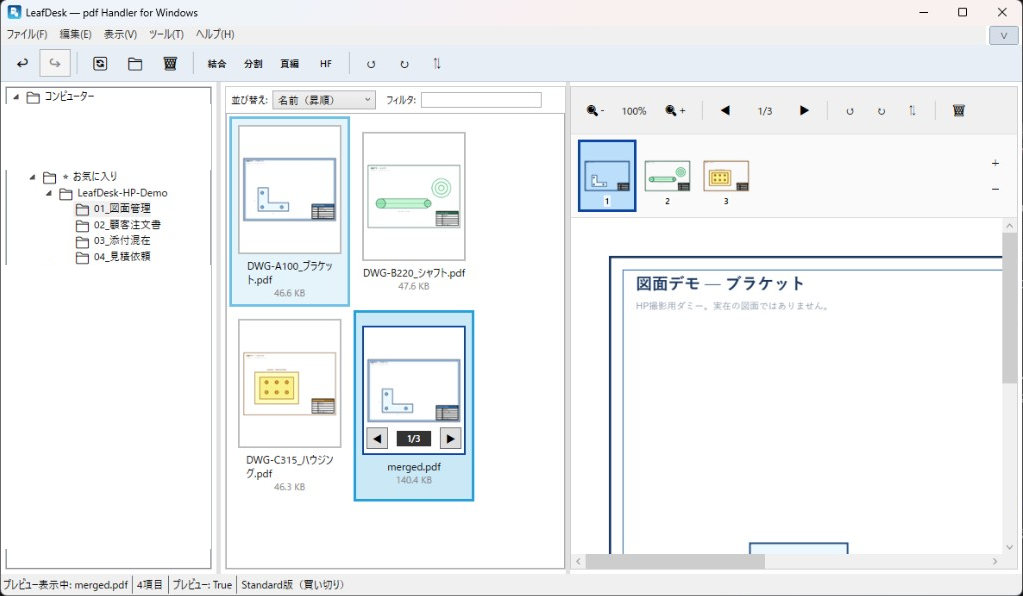
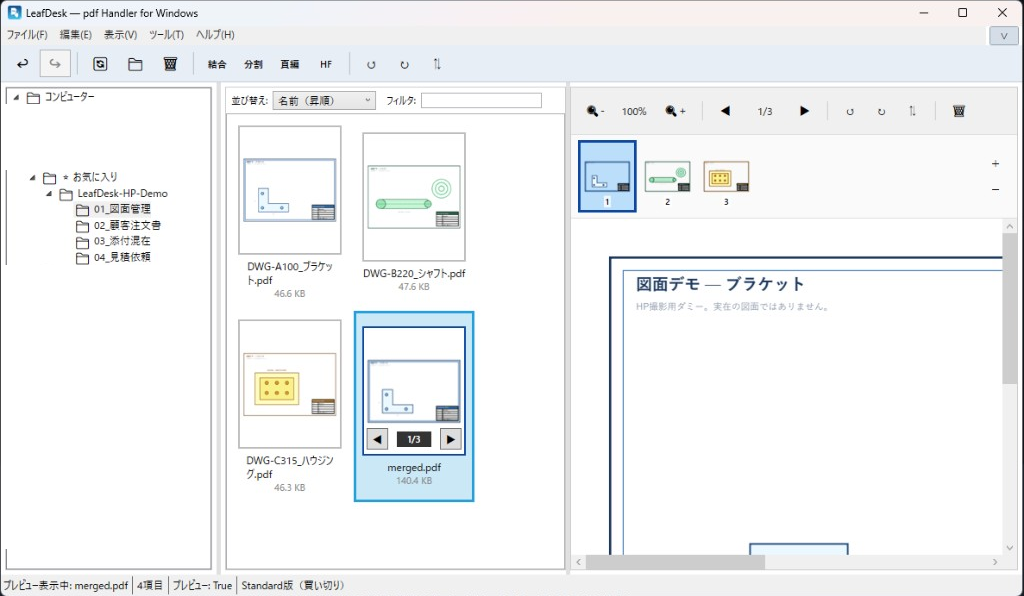
fix(WEB-PDFH): refresh drawing screenshot; drop usecase legend marks
Replace gui-main with trimmed/masked capture. Remove ◎〇△ from use-case list.

diff --git a/pdfhandler.html b/pdfhandler.html
@@ -63,46 +63,28 @@
         <p class="overview-desc">見た目の差がはっきりしている文書ほど、開かずに探す効果が大きいです。</p>
         <ul class="usecase-list">
           <li>
-            <span class="usecase-mark usecase-mark-high" aria-label="効果大">◎</span>
-            <div>
-              <strong>図面管理</strong>
-              <p>図面枠・図番・形状を見て、目的の図面を瞬時に判別できます。</p>
-            </div>
+            <strong>図面管理</strong>
+            <p>図面枠・図番・形状を見て、目的の図面を瞬時に判別できます。</p>
           </li>
           <li>
-            <span class="usecase-mark usecase-mark-high" aria-label="効果大">◎</span>
-            <div>
-              <strong>顧客注文書の管理</strong>
-              <p>顧客ごとにレイアウトが異なるため、見た目で識別しやすいです。</p>
-            </div>
+            <strong>顧客注文書の管理</strong>
+            <p>顧客ごとにレイアウトが異なるため、見た目で識別しやすいです。</p>
           </li>
           <li>
-            <span class="usecase-mark usecase-mark-high" aria-label="効果大">◎</span>
-            <div>
-              <strong>注文書の添付図面管理</strong>
-              <p>図面・仕様書・検査基準書などを、いちいち開かずに区別できます。</p>
-            </div>
+            <strong>注文書の添付図面管理</strong>
+            <p>図面・仕様書・検査基準書などを、いちいち開かずに区別できます。</p>
           </li>
           <li>
-            <span class="usecase-mark usecase-mark-high" aria-label="効果大">◎</span>
-            <div>
-              <strong>見積依頼書・要求仕様書の管理</strong>
-              <p>顧客図面や仕様書が添付される案件でも、目的の資料を探しやすくなります。</p>
-            </div>
+            <strong>見積依頼書・要求仕様書の管理</strong>
+            <p>顧客図面や仕様書が添付される案件でも、目的の資料を探しやすくなります。</p>
           </li>
           <li>
-            <span class="usecase-mark usecase-mark-mid" aria-label="効果中">〇</span>
-            <div>
-              <strong>契約書管理</strong>
-              <p>表紙で識別できる場合に有効です。</p>
-            </div>
+            <strong>契約書管理</strong>
+            <p>表紙で識別できる場合に有効です。</p>
           </li>
           <li>
-            <span class="usecase-mark usecase-mark-low" aria-label="効果限定">△</span>
-            <div>
-              <strong>テキスト中心の帳票</strong>
-              <p>サムネイルが似て見えやすく、効果は限定的です。</p>
-            </div>
+            <strong>テキスト中心の帳票</strong>
+            <p>サムネイルが似て見えやすく、効果は限定的です。</p>
           </li>
         </ul>
       </div>
@@ -119,7 +101,7 @@
               <h3 class="screenshot-title">図面管理</h3>
               <p class="screenshot-desc">形の違う図面をサムネイルで並べ、右側プレビューとページストリップで内容を確認</p>
             </div>
-            <img src="assets/pdfhandler/gui-main.png" alt="LeafDesk 図面管理画面 — サムネイルとプレビュー" width="1023" height="596">
+            <img src="assets/pdfhandler/gui-main.png" alt="LeafDesk 図面管理画面 — サムネイルとプレビュー" width="1024" height="596">
           </div>
           <div class="screenshot-item">
             <div class="screenshot-caption">

diff --git a/styles.css b/styles.css
@@ -527,10 +527,6 @@ h2 {
 }
 
 .usecase-list > li {
-  display: grid;
-  grid-template-columns: 2rem 1fr;
-  gap: 12px;
-  align-items: start;
   padding: 14px 16px;
   background: rgba(255, 255, 255, 0.03);
   border: 1px solid rgba(255, 255, 255, 0.08);
@@ -548,25 +544,6 @@ h2 {
   color: var(--color-text-muted);
   font-size: 0.95rem;
   line-height: 1.6;
-}
-
-.usecase-mark {
-  font-weight: 700;
-  font-size: 1.15rem;
-  line-height: 1.4;
-  text-align: center;
-}
-
-.usecase-mark-high {
-  color: var(--color-accent);
-}
-
-.usecase-mark-mid {
-  color: #86efac;
-}
-
-.usecase-mark-low {
-  color: var(--color-text-muted);
 }
 
 /* Screenshots */

diff --git a/scripts/fix-leafdesk-hp-screenshots.py b/scripts/fix-leafdesk-hp-screenshots.py
@@ -17,7 +17,7 @@ VERIFY = Path(r"d:\Users\admin_mak\project\pdf-handler_DEV\docs\development\mock
 
 SOURCES = {
     "gui-main.png": ASSETS
-    / "c__Users_admin_mak_AppData_Roaming_Cursor_User_workspaceStorage_da820770282a5af9193dc7f909db0d08_images_image-de0b09b6-3eaa-472f-a98c-0068985e2a96.png",
+    / "c__Users_admin_mak_AppData_Roaming_Cursor_User_workspaceStorage_da820770282a5af9193dc7f909db0d08_images_image-baac1277-a57b-414e-9cc1-41194dc6d051.png",
     "gui-po.png": ASSETS
     / "c__Users_admin_mak_AppData_Roaming_Cursor_User_workspaceStorage_da820770282a5af9193dc7f909db0d08_images_image-02d135c2-b258-4bb8-abe7-08d2c62ef530.png",
     "gui-mix.png": ASSETS

diff --git a/CHANGELOG.md b/CHANGELOG.md
@@ -2,7 +2,8 @@
 
 ## 2026-08-03（LeafDesk 商品ページ — ユースケース訴求）
 
-- **WEB-PDFH** — ヒーロー／概要を「開かずに見分ける」訴求に更新。「こんな場面で」を追加（図面・注文書・添付・見積 ◎）
+- **WEB-PDFH** — ヒーロー／概要を「開かずに見分ける」訴求に更新。「こんな場面で」を追加（図面・注文書・添付・見積）
+- ◎〇△の効果判例表示をやめ、見出し＋説明のみに整理
 - スクリーンショットをダミー図面／注文書／添付混在／見積依頼の 4 枚に差し替え（ツリーの実ドライブはマスク済み）
 - **WEB-INDEX** — LeafDesk カード説明文を同趣旨に同期
 
